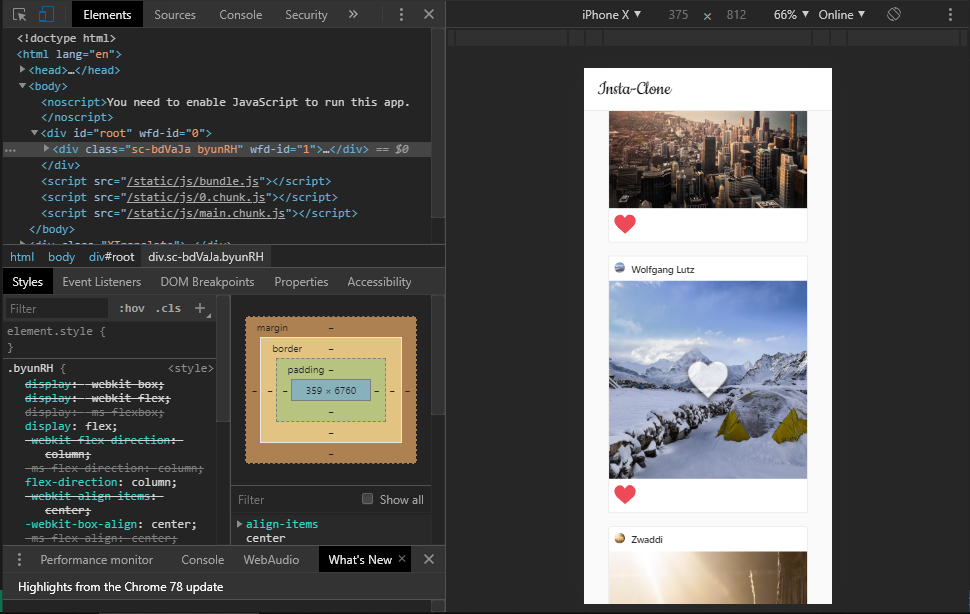
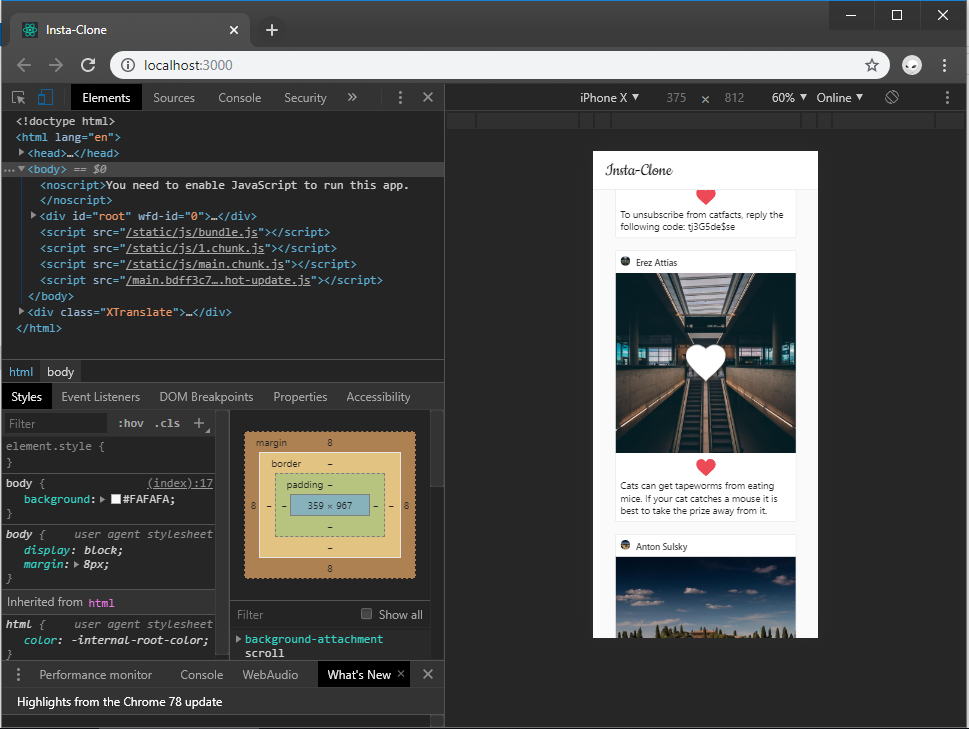
added post description (meowfacts)

diff --git a/src/meowfacts/index.js b/src/meowfacts/index.js
@@ -1,0 +1,137 @@
+// I love this project <3
+// https://github.com/wh-iterabb-it/meowfacts
+
+// I just didn't use this endpoint because of the overhead and handshake
+// https://meowfacts.herokuapp.com/ (endpoint)
+
+function getSingle() {
+  const li = [
+    'In 1987 cats overtook dogs as the number one pet in America.',
+    'Cats that live together sometimes rub each others heads to show that they have no intention of fighting.'
+    + ' Young cats do this more often, especially when they are excited.',
+    'Mother cats teach their kittens to use the litter box.',
+    'To unsubscribe from catfacts, reply the following code: tj3G5de$se',
+    'You gotta be kitten me! are you sure you want to unsubscribe? send YES or NO',
+    'Invalid Command, CatFacts!',
+    'The way you treat kittens in the early stages of it\'s life will render it\'s personality traits later in life.',
+    'Contrary to popular belief, the cat is a social animal. A pet cat will respond and answer to speech , '
+    + 'and seems to enjoy human companionship.',
+    'When well treated, a cat can live twenty or more years but the average life span of a domestic cat is 14 years.',
+    'Neutering a cat extends its life span by two or three years.',
+    'To unsubscribe from catfacts, reply the following code: tj3G5de$se',
+    'You gotta be kitten me! are you sure you want to unsubscribe? send YES or NO',
+    'Invalid Command, CatFacts!',
+    'Cats, especially older cats, do get cancer. Many times this disease can be treated successfully.',
+    'Cats can not taste sweets.',
+    'Cats must have fat in their diet because they cannot produce it on their own.',
+    'Some common houseplants poisonous to cats include: English Ivy, iris, mistletoe, philodendron, and yew.',
+    'Tylenol and chocolate are both poisionous to cats.',
+    'Many cats cannot properly digest cows milk. Milk and milk products give them diarrhea.',
+    'The average cat food meal is the equivalent to about five mice.',
+    'Cats can get tapeworms from eating fleas. These worms live inside the cat forever, or until they are re'
+    + 'moved with medication. They reproduce by shedding a link from the end of their long bodies. This link c'
+    + 'rawls out the cat\'s anus, and sheds hundreds of eggs. These eggs are injested by flea larvae, and the '
+    + 'cycles continues. Humans may get these tapeworms too, but only if they eat infected fleas. Cats with ta'
+    + 'peworms should be dewormed by a veterinarian.',
+    'Cats can get tapeworms from eating mice. If your cat catches a mouse it is best to take the prize away '
+    + 'from it.',
+    'A form of AIDS exists in cats.',
+    'The color of the points in Siamese cats is heat related. Cool areas are darker.',
+    'Siamese kittens are born white because of the heat inside the mother\'s uterus before birth. This heat '
+    + 'keeps the kittens\' hair from darkening on the points.',
+    'People who are allergic to cats are actually allergic to cat saliva or to cat dander. If the resident c'
+    + 'at is bathed regularly the allergic people tolerate it better.',
+    'Studies now show that the allergen in cats is related to their scent glands. Cats have scent glands on '
+    + 'their faces and at the base of their tails. Entire male cats generate the most scent. If this secretion'
+    + ' from the scent glands is the allergen, allergic people should tolerate spayed female cats the best.',
+    'Cats do not think that they are little people. They think that we are big cats. This influences their b'
+    + 'ehavior in many ways.',
+    'Cats are subject to gum disease and to dental caries. They should have their teeth cleaned by the vet o'
+    + 'r the cat dentist once a year.',
+    'Many people fear catching a protozoan disease, Toxoplasmosis, from cats. This disease can cause illness'
+    + ' in the human, but more seriously, can cause birth defects in the unborn. Toxoplasmosis is a common dis'
+    + 'ease, sometimes spread through the feces of cats. It is caused most often from eating raw or rare beef.'
+    + ' Pregnant women and people with a depressed immune system should not touch the cat litter box. Other th'
+    + 'an that, there is no reason that these people have to avoid cats.',
+    'The ancestor of all domestic cats is the African Wild Cat which still exists today.',
+    'In ancient Egypt, killing a cat was a crime punishable by death.',
+    'In ancient Egypt, mummies were made of cats, and embalmed mice were placed with them in their tombs. In'
+    + ' one ancient city, over 300,000 cat mummies were found.',
+    'In the Middle Ages, during the Festival of Saint John, cats were burned alive in town squares.',
+    'The first cat show was in 1871 at the Crystal Palace in London.',
+    'Today there are about 100 distinct breeds of the domestic cat.',
+    'Like birds, cats have a homing ability that uses its biological clock, the angle of the sun, and the Ea'
+    + 'rth\'s magnetic field. A cat taken far from its home can return to it. But if a cat\'s owners move far '
+    + 'from its home, the cat can\'t find them.',
+    'Cats bury their feces to cover their trails from predators.',
+    'Cats sleep 16 to 18 hours per day. When cats are asleep, they are still alert to incoming stimuli. If y'
+    + 'ou poke the tail of a sleeping cat, it will respond accordingly.',
+    'Besides smelling with their nose, cats can smell with an additional organ called the Jacobson\'s organ,'
+    + ' located in the upper surface of the mouth.',
+    'The chlorine in fresh tap water irritates sensitive parts of the cat\'s nose. Let tap water sit for 24 '
+    + 'hours before giving it to a cat.',
+    'Abraham Lincoln loved cats. He had four of them while he lived in the White House.',
+    'Julius Ceasar, Henri II, Charles XI, and Napoleon were all afraid of cats.',
+    'Cats have an average of 24 whiskers, arranged in four horizontal rows on each side.',
+    'The word "cat" in various languages: French: chat; German: katze; Italian: gatto; Spanish/Portugese: ga'
+    + 'to; Yiddish: kats; Maltese: qattus; Swedish/Norwegian: katt; Dutch: kat; Icelandic: kottur; Greek: catt'
+    + 'a; Hindu: katas; Japanese:neko; Polish: kot; Ukranian: kotuk; Hawiian: popoki; Russian: koshka; Latin: '
+    + 'cattus; Egyptian: mau; Turkish: kedi; Armenian: Gatz; Chinese: mio; Arabic: biss; Indonesian: qitta; Bu'
+    + 'lgarian: kotka; Malay: kucing; Thai/Vietnamese: meo; Romanian: pisica; Lithuanian: katinas; Czech: kock'
+    + 'a; Slovak: macka; Armenian: gatz; Basque: catua; Estonian: kass; Finnish: kissa; Swahili: paka.',
+    'Statistics indicate that animal lovers in recent years have shown a preference for cats over dogs!',
+    'Cats can be taught to walk on a leash, but a lot of time and patience is required to teach them. The yo'
+    + 'unger the cat is, the easier it will be for them to learn.',
+    'Purring not always means happiness. Purring could mean a cat is in terrible pain such as during childbi'
+    + 'rth. Kitten will purr to their mother to let her know they are getting enough milk while nursing. Purri'
+    + 'ng is a process of inhaling and exhaling, usually performed while the mouth is closed. But don\'t worry'
+    + ', if your cat is purring while your gently petting her and holding her close to you - that is a happy c'
+    + 'at!',
+    'The catnip plant contains an oil called hepetalactone which does for cats what marijuana does to some p'
+    + 'eople. Not all cats react to it those that do appear to enter a trancelike state. A positive reaction t'
+    + 'akes the form of the cat sniffing the catnip, then licking, biting, chewing it, rub & rolling on it rep'
+    + 'eatedly, purring, meowing & even leaping in the air.',
+    'Of all the species of cats, the domestic cat is the only species able to hold its tail vertically while'
+    + ' walking. All species of wild cats hold their talk horizontally or tucked between their legs while walk'
+    + 'ing.',
+    'A happy cat holds her tail high and steady.',
+    'Almost 10% of a cat\'s bones are in its tail, and the tail is used to maintain balance.',
+    'Cat families usually play best in even numbers. Cats and kittens should be aquired in pairs whenever po'
+    + 'ssible.',
+    'Baking chocolate is the most dangerous chocolate to your cat.',
+    'You check your cats pulse on the inside of the back thigh, where the leg joins to the body. Normal for '
+    + 'cats: 110-170 beats per minute.',
+    'Jaguars are the only big cats that don\'t roar.',
+    'A cats field of vision is about 185 degrees.',
+    'Cats have individual preferences for scratching surfaces and angles. Some are horizontal scratchers whi'
+    + 'le others exercise their claws vertically.',
+    'The Maine Coone is the only native American long haired breed.',
+    'The Maine Coon is 4 to 5 times larger than the Singapura, the smallest breed of cat.',
+    'Tabby cats are thought to get their name from Attab, a district in Baghdad, now the capital of Iraq.',
+    'Retractable claws are a physical phenomenon that sets cats apart from the rest of the animal kingdom. I'
+    + 'n the cat family, only cheetahs cannot retract their claws.',
+    'Not every cat gets "high" from catnip. Whether or not a cat responds to it depends upon a recessive gen'
+    + 'e: no gene, no joy.',
+    'A cat can sprint at about thirty-one miles per hour.',
+    'In ancient Egypt, when a family cat died, all family members would shave their eyebrows as a sign of mo'
+    + 'urning.',
+    'Cats have been domesticated for half as long as dogs have been.',
+    'A cat\'s whiskers are thought to be a kind of radar, which helps a cat gauge the space it intends to wa'
+    + 'lk through.',
+    'A cat can spend five or more hours a day grooming himself.',
+    'All cats have three sets of long hairs that are sensitive to pressure - whiskers, eyebrows,and the hair'
+    + 's between their paw pads.',
+    'Both humans and cats have identical regions in the brain responsible for emotion.',
+    'To unsubscribe from catfacts, reply the following code: tj3G5de$se',
+    'You gotta be kitten me! are you sure you want to unsubscribe? send YES or NO',
+    'Invalid Command, CatFacts!',
+    'A cat\'s brain is more similar to a man\'s brain than that of a dog.',
+    'A cat has more bones than a human; humans have 206, and the cat - 230.',
+    'Cats have 30 vertebrae--5 more than humans have.',
+  ];
+
+  return li[Math.floor(Math.random() * li.length)];
+}
+
+
+module.exports = { getSingle };

diff --git a/src/App.js b/src/App.js
@@ -2,6 +2,8 @@ import React, { useState, useEffect } from 'react';
 
 import { Container } from './styles';
 
+import MeowFacts from './meowfacts';
+
 import Navbar from './components/Navbar';
 import Feed from './components/Feed';
 
@@ -38,10 +40,15 @@ export default function App() {
     useEffect(() => {
 
         async function fetchData() {
-            const response = await fetch(`https://picsum.photos/v2/list?page=${currentPage}&limit=100`);
-            const json = await response.json();
+            const picsum_response = await fetch(`https://picsum.photos/v2/list?page=${currentPage}&limit=100`);
+            const array_data = await picsum_response.json();
 
-            setFeedData(shuffle(json));
+
+            for (let id = 0; id < array_data.length; id++) {
+                array_data[id].description = MeowFacts.getSingle();
+            }
+
+            setFeedData(shuffle(array_data));
         }
 
         fetchData();

diff --git a/src/components/Post/index.js b/src/components/Post/index.js
@@ -49,9 +49,11 @@ export default function Post({ postData }) {
                             c2.011,6.175,7.768,10.354,14.262,10.354c6.494,0,12.251-4.179,14.262-10.354c2.404-7.377,9.453-26.595,22.962-45.66
                             c15.06-21.255,41.647-46.593,82.776-46.593c29.621,0,56.66,12.171,76.137,34.27C471.395,115.957,482,145.521,482,177.351
                             C482,254.358,413.255,312.939,309.193,401.614z"/>
-                        )}
+                            )}
                     </svg>
                 </button>
+                
+            <p>{postData.description}</p>
             </footer>
         </Container>
     );

diff --git a/src/components/Post/styles.js b/src/components/Post/styles.js
@@ -11,11 +11,17 @@ export const Container = styled.article`
     border-radius: 3px;
     border: 1px solid #E6E6E6;
 
+    
+    &>footer>p {
+        color: #262626;
+    }
     &>footer {
-        display: flex;
-        flex-direction: row;
-
         padding: 16px;
+        
+        display: flex;
+        flex-direction: column;
+        
+        align-items: center;
     }
     &>footer svg {
         width: 32px;

diff --git a/README.md b/README.md
@@ -4,7 +4,12 @@
 #### Live Preview:
 >https://insta-clone.bruno3dcontato.now.sh/
 
-## Images
+## Speacial Thanks
+I love this project <3
+https://github.com/wh-iterabb-it/meowfacts
+
+I just didn't use this endpoint because of the overhead and handshake:
+https://meowfacts.herokuapp.com/ 
 
 # Browser View
 ![Preview 1](./images/image01.png)
